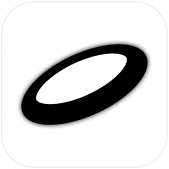
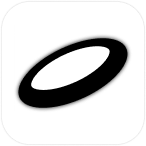
Update assets from resized Figma frame
iPhone mockup: 344x708 → 297x613
App icon: 82x82 → 71x71
Both re-exported as fresh PNGs from Figma API.

diff --git a/app/page.tsx b/app/page.tsx
@@ -37,8 +37,8 @@ export default function Home() {
 
           {/* App icon + wordmark */}
           <div className="flex items-center gap-4 mb-8">
-            <div className="w-[82px] h-[82px] bg-white rounded-[16px] shadow-[0px_0px_1.088px_rgba(0,0,0,0.25)] flex items-center justify-center overflow-hidden flex-shrink-0">
-              <Image src="/assets/app-icon.png" alt="Mismo" width={82} height={82} quality={100} />
+            <div className="w-[71px] h-[71px] bg-white rounded-[14px] shadow-[0px_0px_1.088px_rgba(0,0,0,0.25)] flex items-center justify-center overflow-hidden flex-shrink-0">
+              <Image src="/assets/app-icon.png" alt="Mismo" width={71} height={71} quality={100} />
             </div>
             <span className="text-[38px] font-semibold text-black leading-none tracking-tight" style={{ fontFamily: '-apple-system, BlinkMacSystemFont, "SF Pro Display", sans-serif' }}>
               Mismo

diff --git a/app/components/IPhoneMockup.tsx b/app/components/IPhoneMockup.tsx
@@ -5,8 +5,8 @@ export default function IPhoneMockup() {
     <Image
       src="/assets/iphone-mockup.png"
       alt="Mismo iOS app"
-      width={344}
-      height={708}
+      width={297}
+      height={613}
       quality={100}
       priority
       className="flex-shrink-0"
